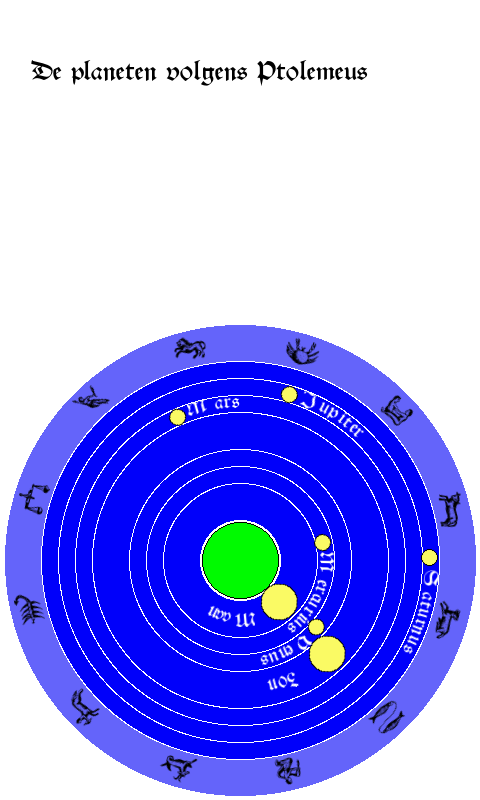
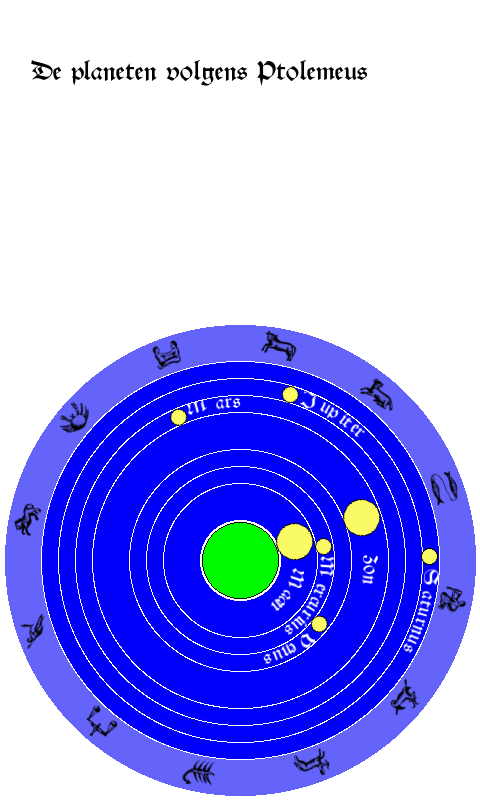
epicykel aangepast

diff --git a/ptolemeus.py b/ptolemeus.py
@@ -129,8 +129,10 @@ def epicykel(tijd,omlooptijd,straal,excentriciteit,lengteperiapsis,tijdperiapsis
     equansx = straal * math.cos(equansanomalie) - deferent
     equansy = straal * math.sin(equansanomalie)
     # De epicykel, de cirkel op de cirkel
-    equansx = equansx + straalaarde * math.cos(tijd / siderischjaar)
-    equansy = equansy + straalaarde * math.sin(tijd / siderischjaar)
+    epianomalie = (tijd)/siderischjaar*tweepi
+    straalaarde = (149476014.0805783 + 149454602.05227306) / 2.0
+    equansx = equansx - straalaarde * math.cos(epianomalie)
+    equansy = equansy - straalaarde * math.sin(epianomalie)
     # Hoek vanuit de Aarde
     wareanomalie = math.atan2(equansy, equansx)
     schijnbareanomalie = wareanomalie + lengteperiapsis
